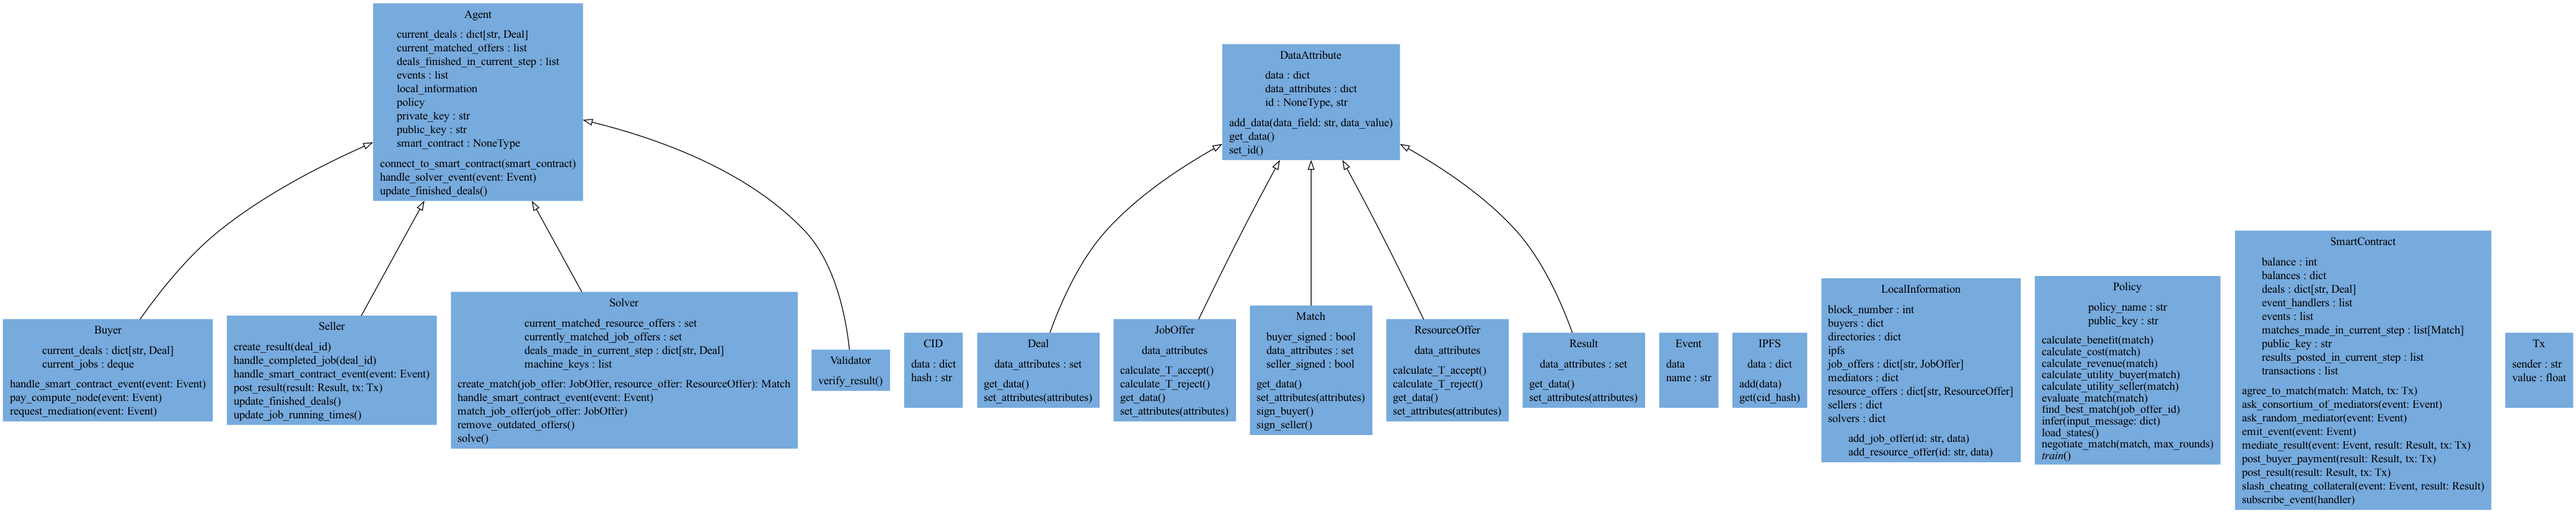
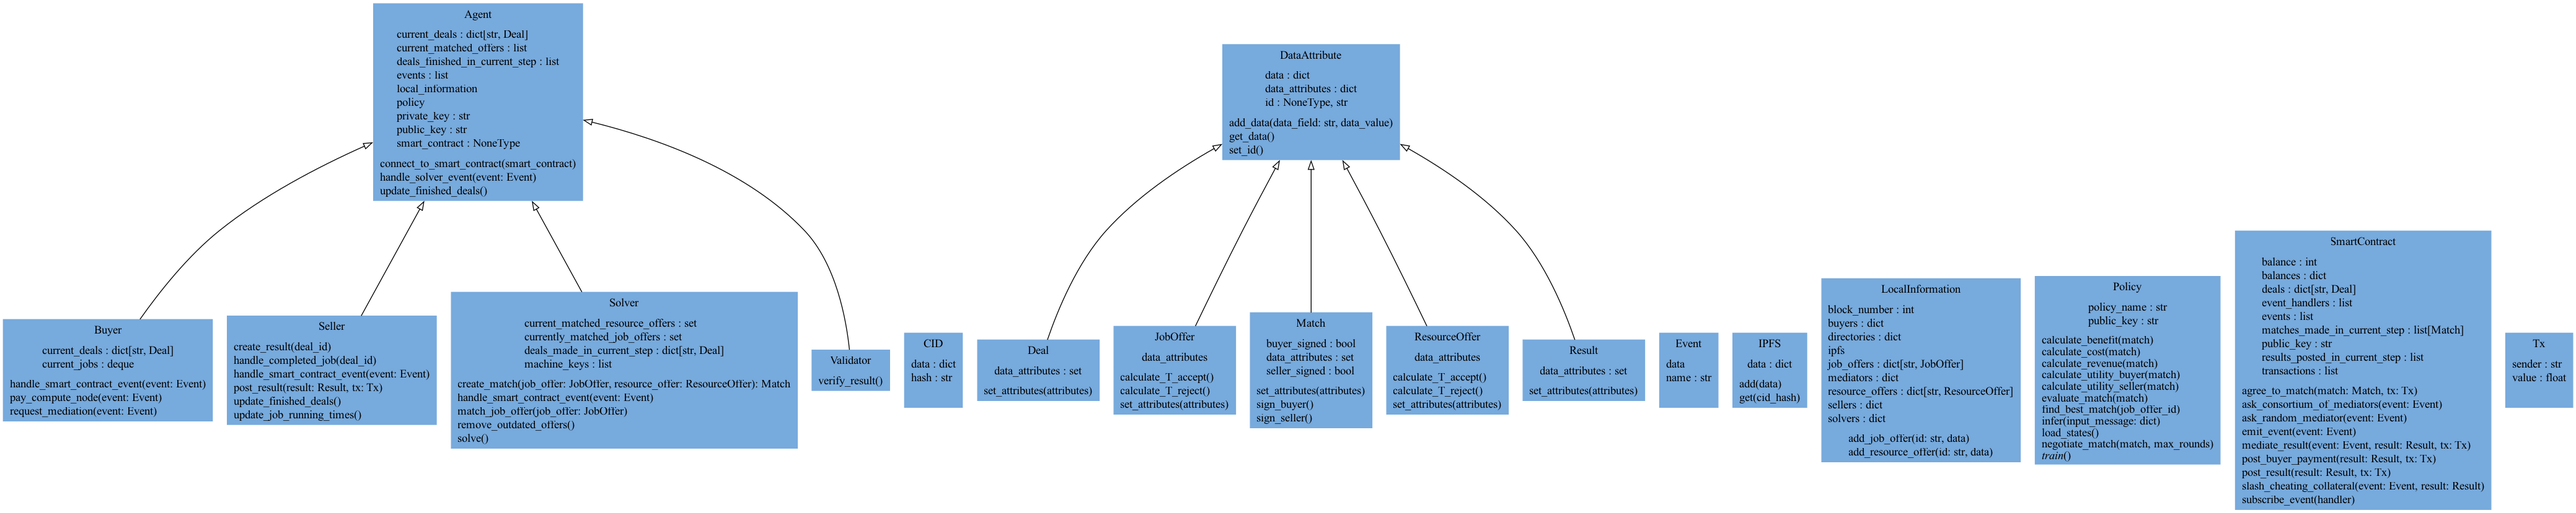
chore: remove duplicate function definition

Changed region(s): [[0.3725, 0.573, 0.6518, 0.8745]]

diff --git a/tests/test_solver.py b/tests/test_solver.py
@@ -156,17 +156,5 @@ def test_match_job_offer(setup_solver):
     assert result == setup_solver["resource_offer"]
 
 
-def test_create_match(setup_solver):
-    """Test creation of a match between job and resource offers."""
-    solver = setup_solver["solver"]
-    job_offer = setup_solver["job_offer"]
-    resource_offer = setup_solver["resource_offer"]
-    match = solver.create_match(job_offer, resource_offer)
-    assert match.get_data()["seller_address"] == "seller_public_key"
-    assert match.get_data()["buyer_address"] == "owner_123"
-    assert match.get_data()["resource_offer"] == "resource_offer_123"
-    assert match.get_data()["job_offer"] == "job_offer_123"
-
-
 if __name__ == "__main__":
     pytest.main()

diff --git a/coophive/data_attribute.py b/coophive/data_attribute.py
@@ -42,8 +42,11 @@ class DataAttribute:
             self.data[data_field] = data_value
 
     def get_data(self):
-        """Get the data stored in the data attribute."""
-        return self.data
+        """Get data from attributes."""
+        data = {}
+        for attribute in self.data_attributes:
+            data[attribute] = getattr(self, attribute, None)
+        return data
 
     def set_id(self):
         """Set a unique identifier for the data by hashing the data."""

diff --git a/coophive/match.py b/coophive/match.py
@@ -50,13 +50,6 @@ class Match(DataAttribute):
         """Set the buyer signed flag to True."""
         self.buyer_signed = True
 
-    def get_data(self):
-        """Get data from attributes."""
-        data = {}
-        for attribute in self.data_attributes:
-            data[attribute] = getattr(self, attribute, None)
-        return data
-
     def set_attributes(self, attributes):
         """Set attributes."""
         for key, value in attributes.items():

diff --git a/coophive/result.py b/coophive/result.py
@@ -17,13 +17,6 @@ class Result(DataAttribute):
         super().__init__()
         self.data_attributes = result_attributes
 
-    def get_data(self):
-        """Get data from attributes."""
-        data = {}
-        for attribute in self.data_attributes:
-            data[attribute] = getattr(self, attribute, None)
-        return data
-
     def set_attributes(self, attributes):
         """Set attributes."""
         for key, value in attributes.items():

diff --git a/coophive/deal.py b/coophive/deal.py
@@ -28,13 +28,6 @@ class Deal(DataAttribute):
         super().__init__()
         self.data_attributes = deal_attributes
 
-    def get_data(self):
-        """Get data from attributes."""
-        data = {}
-        for attribute in self.data_attributes:
-            data[attribute] = getattr(self, attribute, None)
-        return data
-
     def set_attributes(self, attributes):
         """Set attributes."""
         for key, value in attributes.items():

diff --git a/coophive/resource_offer.py b/coophive/resource_offer.py
@@ -49,10 +49,3 @@ class ResourceOffer(DataAttribute):
         """Set attributes."""
         for key, value in attributes.items():
             setattr(self, key, value)
-
-    def get_data(self):
-        """Get data from attributes."""
-        data = {}
-        for attribute in self.data_attributes:
-            data[attribute] = getattr(self, attribute, None)
-        return data

diff --git a/coophive/job_offer.py b/coophive/job_offer.py
@@ -41,10 +41,3 @@ class JobOffer(DataAttribute):
         """Set attributes."""
         for key, value in attributes.items():
             setattr(self, key, value)
-
-    def get_data(self):
-        """Get data from attributes."""
-        data = {}
-        for attribute in self.data_attributes:
-            data[attribute] = getattr(self, attribute, None)
-        return data
